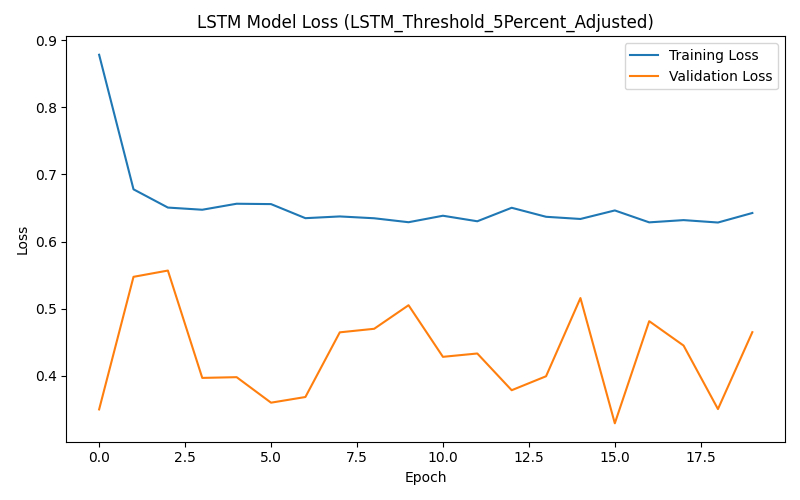
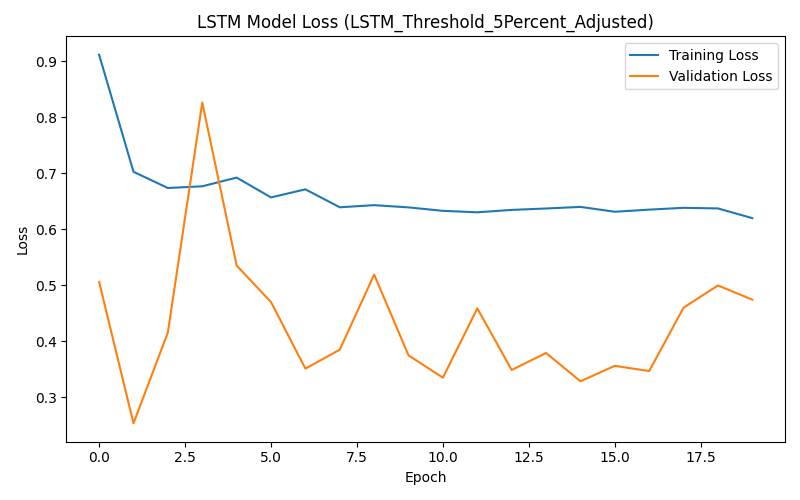
test with new data

diff --git a/src/models.py b/src/models.py
@@ -27,7 +27,7 @@ print(f"--- 📁 Experiment tracking active. Saving results to: {OUTPUT_DIR} ---
 # ==========================================
 print("\n--- 1. Loading Clustered Dataset ---")
 
-file_path = 'data/processed/eth_merged_6h_clustered_3%.csv'
+file_path = 'data/processed/eth_merged_6h_2021_to_latest.csv'
 data = pd.read_csv(file_path)
 data['hour'] = pd.to_datetime(data['hour'])
 data.set_index('hour', inplace=True)
@@ -58,8 +58,7 @@ print("--- 3. Selecting and Scaling Features ---")
 
 feature_columns = [
     'Close', 'Volume ETH', 'massive_whale_volume', 'max_gas_gwei',
-    'unique_large_senders', 'whale_contract_calls', 'total_network_volume', 
-    'Market_Regime' 
+    'unique_large_senders', 'whale_contract_calls', 'total_network_volume'
 ]
 features = data[feature_columns].values
 scaler = MinMaxScaler(feature_range=(0,1))
